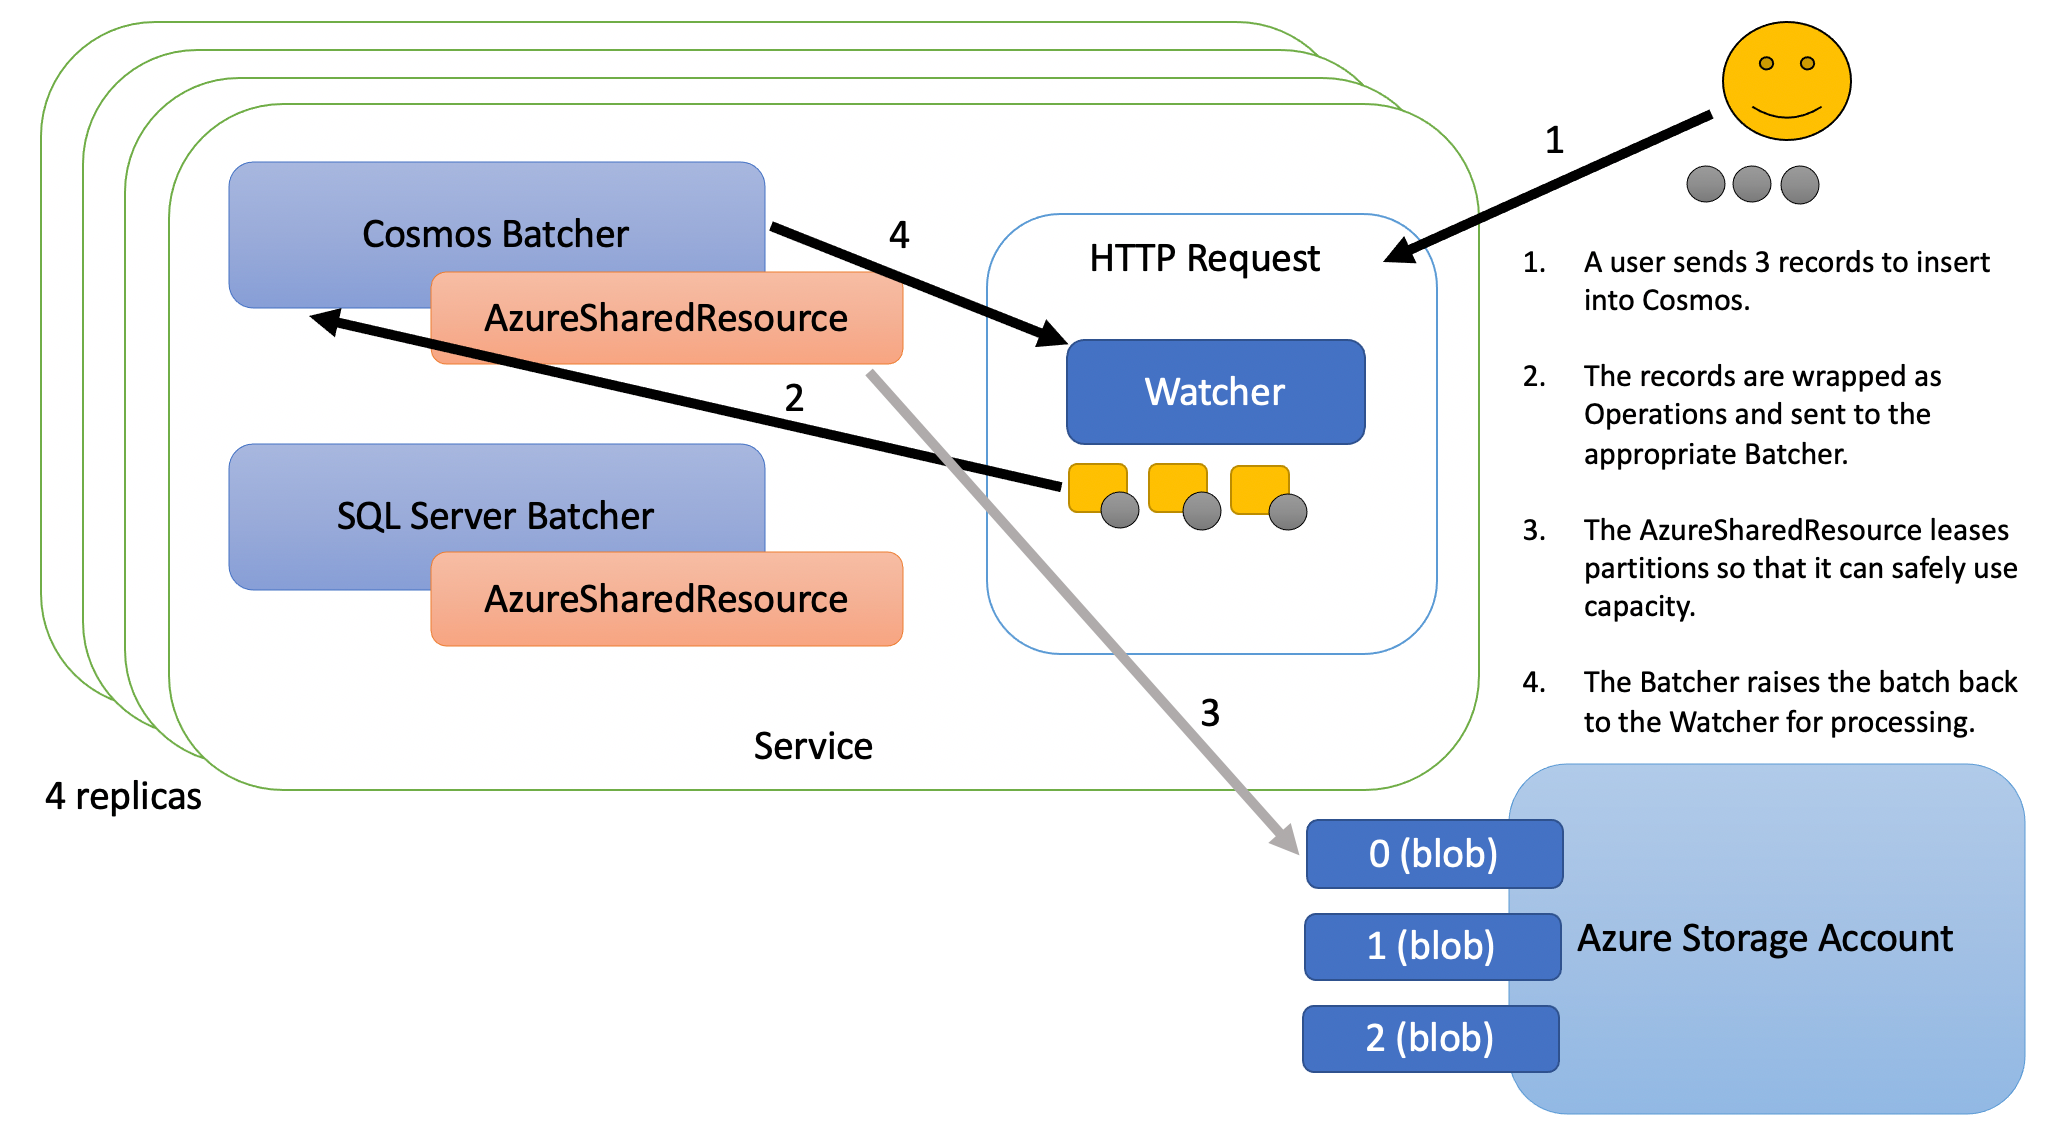
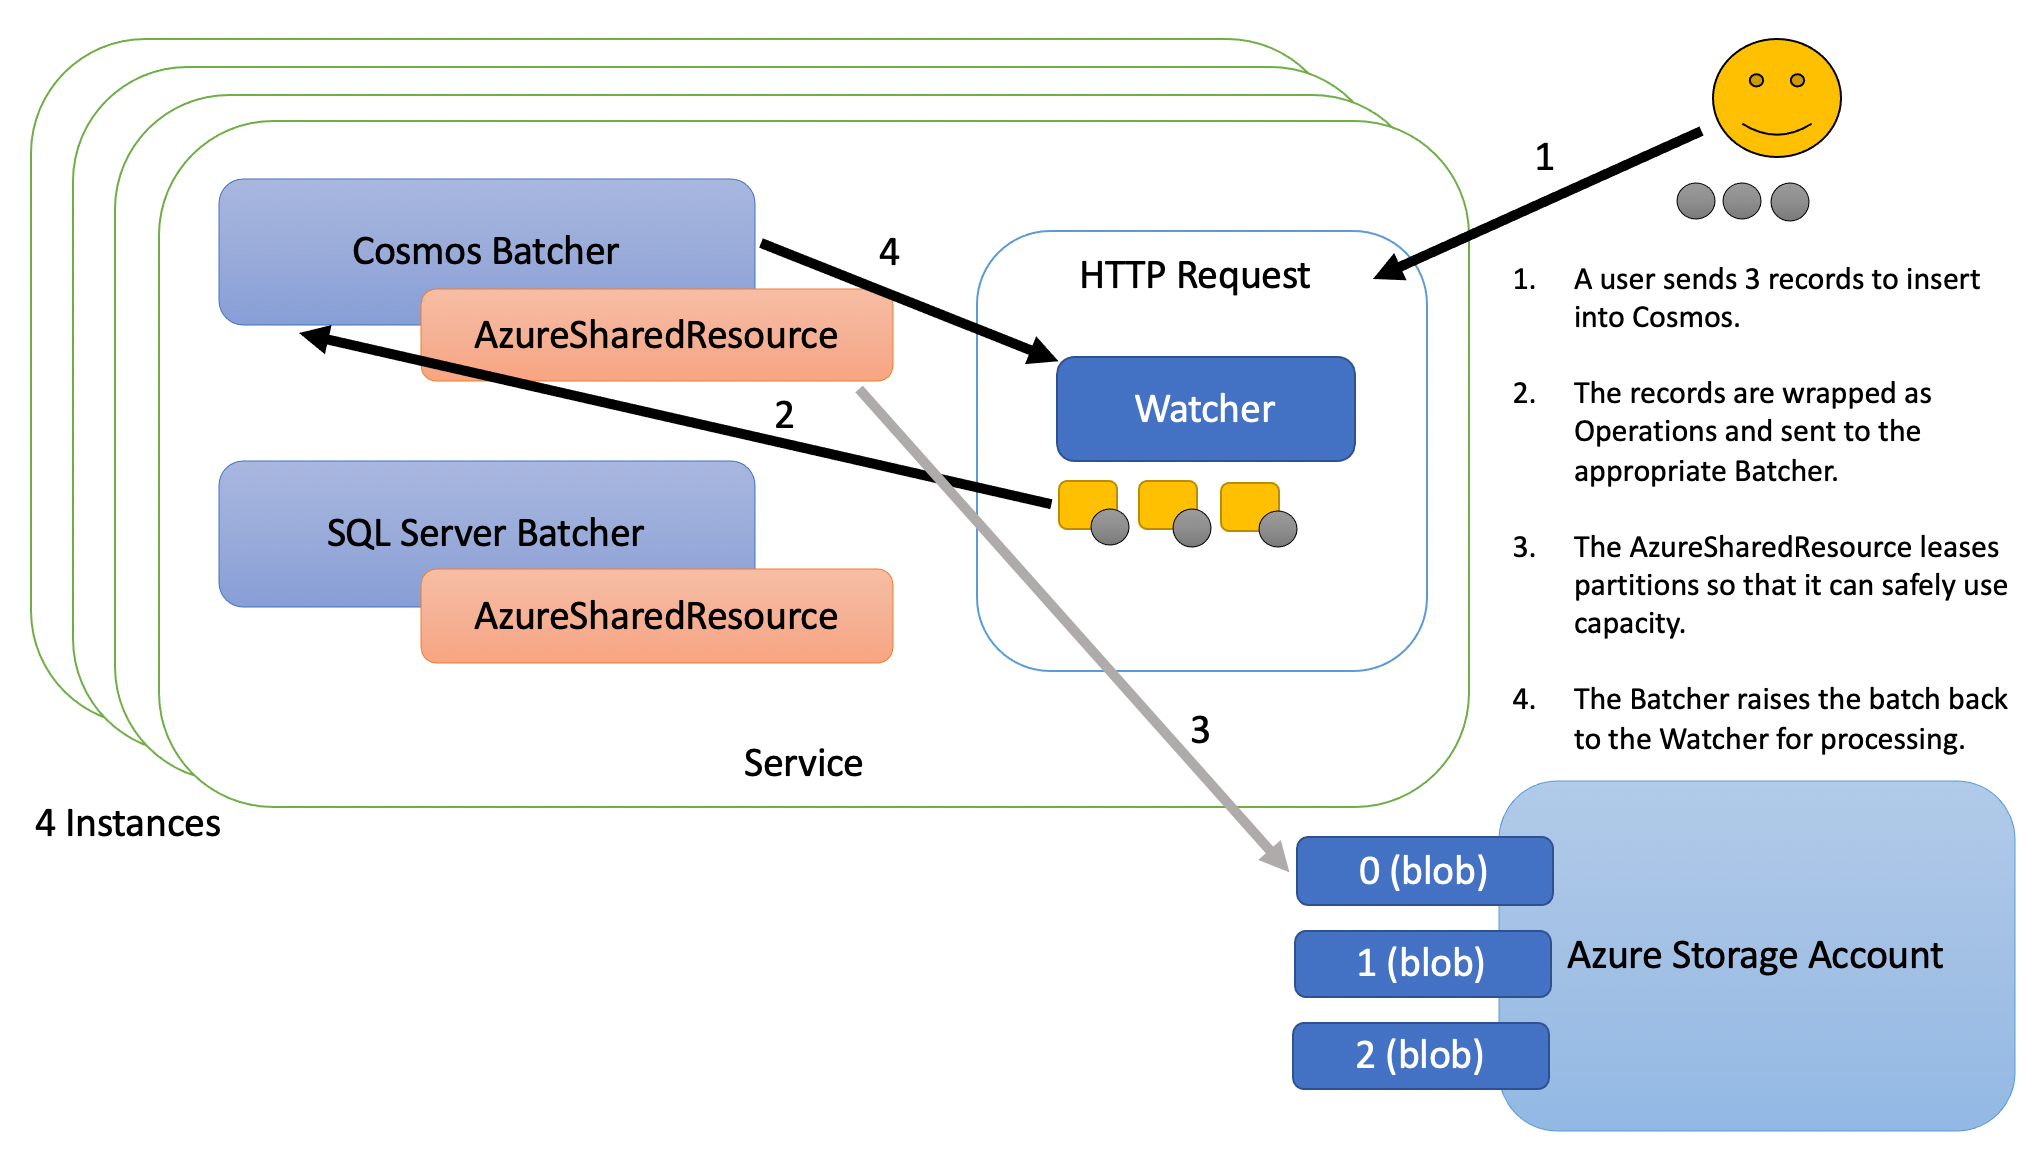
clarified SharedCapacity and ReservedCapacity

diff --git a/README.md b/README.md
@@ -25,13 +25,19 @@ There are also 2 rate limiters provided out-of-the-box...
 
 Some other terms will be used throughout...
 
+- __Instance__: Using AzureSharedResource, you can share the capacity of a datastore across different processes, containers, servers, Pod replicas, etc. Hereafter, these separate entities will be refered to as Instances.
+
 - __Target__: As Operations are enqueued or marked done in Batcher it updates a Target number which is the total cost Batcher thinks is necessary to process any outstanding Operations. In other words, as Operations are enqueued, the Target grows by the cost of that Operation. When a batch is marked done, the Target is reduced by the cost of all Operations in that batch.
 
 - __Capacity__: The capacity that the rate limiter has been able to procure is available via the Capacity() method or the capacity event.
 
-- __MaxCapacity__: When using a rate limiter the MaxCapacity is the maximum capacity that could even be provided. For AzureSharedResource, this is the total of shared capacity and reserved capacity. For ProvisionedResource, this is the capacity that was provided when New() was called.
+- __MaxCapacity__: When using a rate limiter the MaxCapacity is the maximum capacity that could even be provided. For AzureSharedResource, this is the total of SharedCapacity and ReservedCapacity. For ProvisionedResource, this is the MaxCapacity that was provided when New() was called.
 
-- __Partitions__: The AzureSharedResource rate limiter divides the shared capacity by a factor to determine the number of partitions to provision as blobs. If a process owns the exclusive lease on the partition blob, then it is allowed to use 1 factor of capacity. For example, if the shared capacity is 10K and the factor is 1K, then there are 10 partitions, control of each is worth 1K capacity.
+  - __SharedCapacity__: AzureSharedResource has a SharedCapacity which is defined when NewAzureSharedResource() is called. This is the capacity for the datastore that is shared across any number of Instances. In the most simple case, if a Cosmos database had 20K RU and 4 Instances of the service using it, you might specify the SharedCapacity as 20K on each Instance if you want all the capacity shared. SharedCapacity reduces cost.
+
+  - __ReservedCapacity__: AzureSharedResource optionally allows you to specify a ReservedCapacity that will only be used by this Instance. For example, in the above example, if you wanted to reserve 2K RU for each of your Instances, you might use a ReservedCapacity of 2K (on each of 4 Instances) and then use 12K for the SharedCapacity. ReservedCapacity reduces latency.
+
+- __Partitions__: The AzureSharedResource rate limiter divides the SharedCapacity by a factor to determine the number of partitions to provision as blobs. If a process owns the exclusive lease on the partition blob, then it is allowed to use 1 factor of capacity. For example, if the SharedCapacity is 10K and the factor is 1K, then there are 10 partitions, control of each is worth 1K capacity.
 
 ![topology](./images/topology.png)
 
@@ -43,9 +49,9 @@ Some other terms will be used throughout...
 
 - __Rate Limiting__: You may optionally attach a rate limiter to Batcher that can restrict the Operations so they don't exceed a certain cost per second.
 
-- __Shared Capacity__: Batcher supports using a rate limiter. One of the included rate limiters is AzureSharedResource which allows for sharing capacity across multiple processes/containers/replicas. Sharing capacity in this way can reduce cost.
+- __Shared Capacity__: Batcher supports using a rate limiter. One of the included rate limiters is AzureSharedResource which allows for sharing capacity across multiple Instances. Sharing capacity in this way can reduce cost.
 
-- __Reserved Capacity__: AzureSharedResource also supports a reserved capacity to improve latency. For instance, you might have 4 containers that need to share 20K RU in a Cosmos database. You might give each 2K reserved capacity and share the remaining 14K RU. This gives each process low latency up to 2K RU but allows each process to request more.
+- __Reserved Capacity__: AzureSharedResource also supports a reserved capacity to improve latency. For instance, you might have 4 Instances that need to share 20K RU in a Cosmos database. You might give each 2K reserved capacity and share the remaining 14K RU. This gives each process low latency up to 2K RU but allows each process to request more.
 
 - __Cost per Operation__: Each Operation that you enqueue to Batcher will have an associated cost.
 
@@ -170,7 +176,7 @@ batcher := gobatcher.NewBatcherWithBuffer(buffer).
 
 - __CapacityInterval__ [DEFAULT: 100ms]: This determines how often the Batcher asks the RateLimiter for capacity. Generally you should leave this alone, but you could increase it to slow down the number of storage Operations required for sharing capacity. Please be aware that this only applies to Batcher asking for capacity, it doesn't mean the rate limiter will allocate capacity any faster, just that it is being asked more often.
 
-- __AuditInterval__ [DEFAULT: 10s]: This determines how often the Target is audited to ensure it is accurate. The Target is manipulated with atomic Operations and abandoned batches are cleaned up after MaxOperationTime so Target should always be accurate. Therefore, we should expect to only see "audit-pass" and "audit-skip" events. This audit interval is a failsafe that if the buffer is empty and the MaxOperationTime (on Batcher only; Watchers are ignored) is exceeded and the Target is greater than zero, it is reset and an "audit-fail" event is raised. Since Batcher is a long-lived process, this audit helps ensure a broken process does not monopolize shared capacity when it isn't needed.
+- __AuditInterval__ [DEFAULT: 10s]: This determines how often the Target is audited to ensure it is accurate. The Target is manipulated with atomic Operations and abandoned batches are cleaned up after MaxOperationTime so Target should always be accurate. Therefore, we should expect to only see "audit-pass" and "audit-skip" events. This audit interval is a failsafe that if the buffer is empty and the MaxOperationTime (on Batcher only; Watchers are ignored) is exceeded and the Target is greater than zero, it is reset and an "audit-fail" event is raised. Since Batcher is a long-lived process, this audit helps ensure a broken process does not monopolize SharedCapacity when it isn't needed.
 
 - __MaxOperationTime__ [DEFAULT: 1m]: This determines how long the system should wait for the done() function to be called on the batch before it assumes it is done and decreases the Target anyway. It is critical that the Target reflect the current cost of outstanding Operations. The MaxOperationTime ensures that a batch isn't orphaned and continues reserving capacity long after it is no longer needed. Please note there is also a MaxOperationTime on the Watcher which takes precident over this time.
 
@@ -320,7 +326,7 @@ The ProvisionedResource plugs into Batcher the same way, but its capacity never 
 
 There are a couple of scenarios I want to call attention to...
 
-- Reserved plus Shared Capacity: Using 100% reserved capacity reduces latency and using 100% shared capacity is very cost efficient, however, it is generally best to find a happy middle-ground - a small amount of reserved capacity and the rest as shared capacity.
+- ReservedCapacity plus SharedCapacity: Using 100% ReservedCapacity reduces latency and using 100% SharedCapacity is very cost efficient, however, it is generally best to find a happy middle-ground - a small amount of ReservedCapacity and the rest as SharedCapacity.
 
 - Operations per Second: If you want to limit the number of Operations per second rather than on the cost of those operations. You can create all Operations with a cost of 1 and set the capacity appropriately.
 
